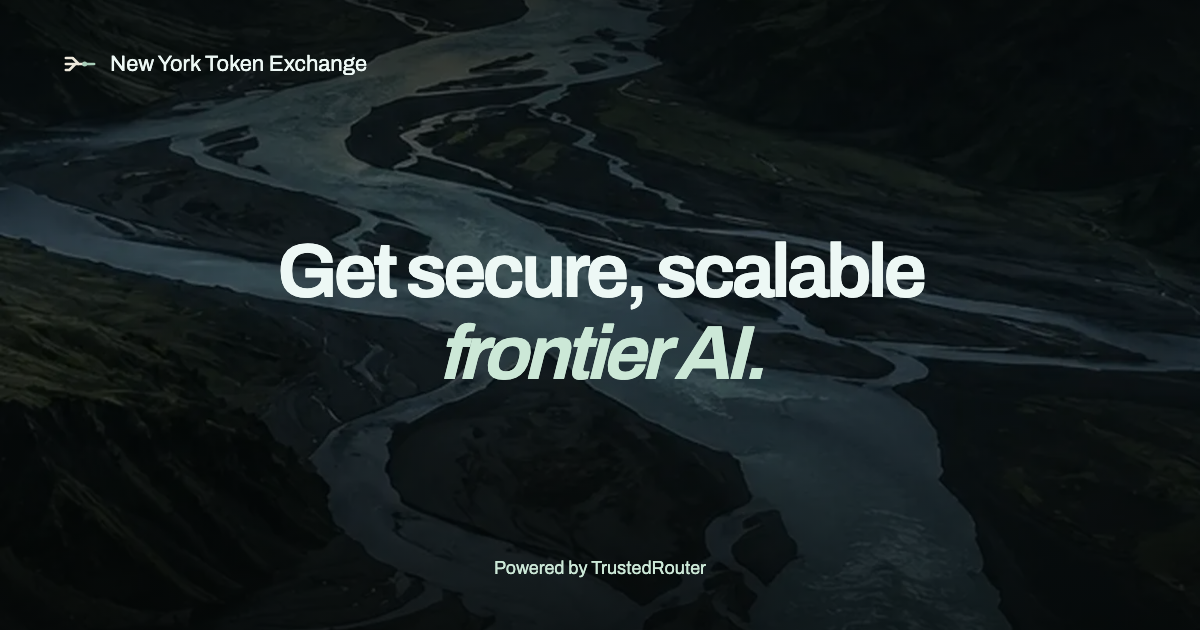
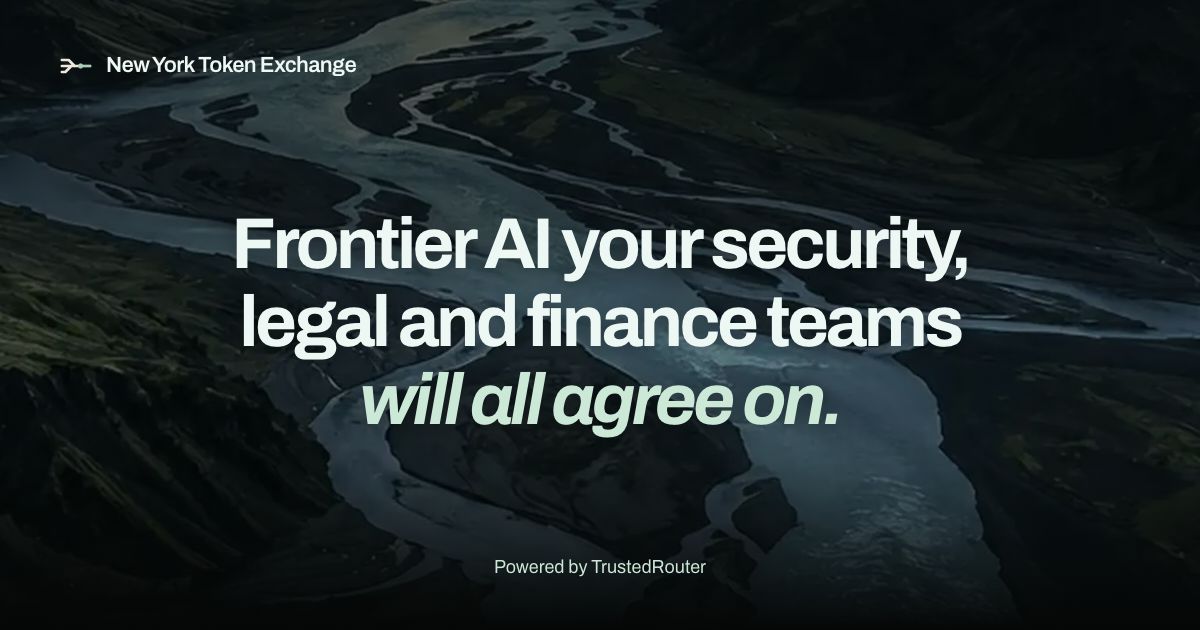
Update NYTE social sharing image

diff --git a/sites/token-exchange/nyte-v2/social-card.html b/sites/token-exchange/nyte-v2/social-card.html
@@ -1,0 +1,3 @@
+<!doctype html><html lang="en"><head><meta charset="utf-8"><meta name="viewport" content="width=1200"><meta name="robots" content="noindex"><title>$name social share image</title><link rel="stylesheet" href="/assets/nyte-v2/styles.css"><style>
+html,body{width:1200px;height:630px;overflow:hidden;margin:0}.social.hero{width:1200px;height:630px;padding:0;display:flex;align-items:center;justify-content:center}.social .social-brand{position:absolute;left:60px;top:48px;display:flex;align-items:center;gap:14px;font-size:22px;font-weight:600;letter-spacing:-.03em}.social-brand img{width:32px;height:32px}.social h1{width:1080px;margin:0;font-size:72px;line-height:1.08;transform:translateY(8px)}.social-attribution{position:absolute;left:0;right:0;bottom:48px;font-size:18px;color:var(--mint)}
+</style></head><body><main class="hero social"><div class="ph ph-river" aria-hidden="true"></div><div class="social-brand"><img src="/assets/mark.svg" alt="">$name</div><h1>$headline</h1><p class="social-attribution">Powered by TrustedRouter</p></main></body></html>

diff --git a/sites/token-exchange/nyte_v2.py b/sites/token-exchange/nyte_v2.py
@@ -26,8 +26,11 @@ def index_panel() -> str:
 
 def render_nyte(
     page: str = "home", *, content: str | None = None, extra_head: str = "",
-    image_url: str = "https://nytokenexchange.com/assets/og-new-york.png",
+    image_url: str | None = None,
 ) -> str:
+    if image_url is None:
+        image_version = hashlib.sha256((HERE / "social-images/og-new-york.png").read_bytes()).hexdigest()[:12]
+        image_url = "https://nytokenexchange.com/assets/og-new-york.png?v=" + image_version
     path, title, description = {
         "home": ("/", "New York Token Exchange: enterprise AI from competing providers", "Every major model from competing providers, through one API. Set your privacy and price rules once, and check the proof yourself."),
         "api": ("/confidential", "Confidential API · New York Token Exchange", "Frontier AI for sensitive work. Confidential compute, end-to-end encryption and live evidence."),

diff --git a/sites/token-exchange/social.py b/sites/token-exchange/social.py
@@ -6,6 +6,7 @@ social-images/og-{slug}.png. The normal build copies those reviewed images.
 """
 import argparse
 import html
+import re
 from pathlib import Path
 from string import Template
 
@@ -25,7 +26,11 @@ def prepare(output):
         headline = headline.replace(' <span class="headline-accent">', '<br><span class="headline-accent">', 1)
         folder = output / f"social-{market['slug']}"
         folder.mkdir(parents=True, exist_ok=True)
-        (folder / 'index.html').write_text(template.substitute(
+        card = template
+        if market['slug'] == 'new-york':
+            card = Template((HERE / 'nyte-v2/social-card.html').read_text())
+            headline = re.search(r'<h1>(.*?)</h1>', (HERE / 'nyte-v2/home.html').read_text(), re.S).group(1)
+        (folder / 'index.html').write_text(card.substitute(
             name=html.escape(market['name']), headline=headline))
 
 
